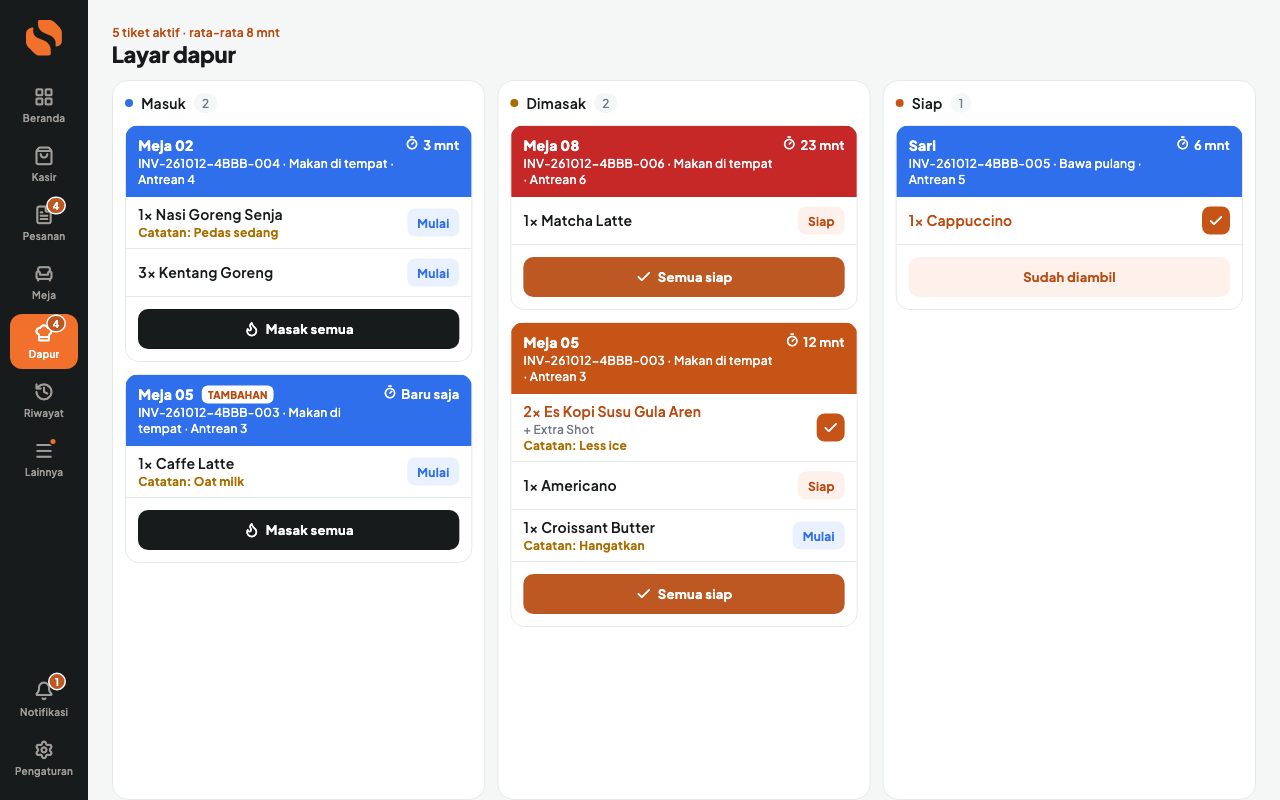
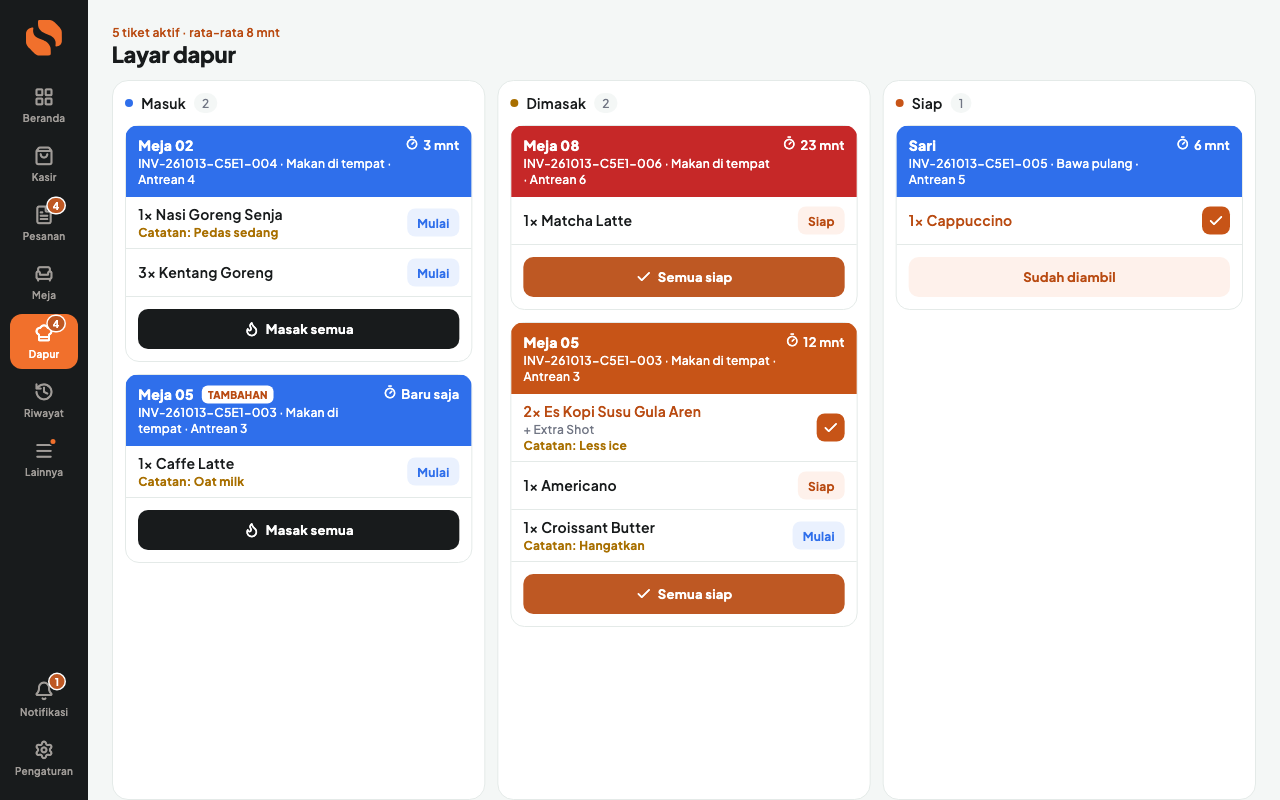
docs(panduan): impor Excel, printer Bluetooth baru, salinan struk toko, notifikasi, ganti password; gambar aplikasi terbaru
- guides.ts: impor kini Excel/CSV (Pilih berkas, lembar Varian/Bahan/Resep/
  Pilihan Ekstra), pemilih printer (Paling dekat, kode singkat, Cetak tes),
  salinan untuk toko, 3 kategori notifikasi baru, form ganti password,
  pesanan siap di HP (lonceng), catatan butuh internet.
- Halaman Fitur & perbandingan harga: "Impor produk dari Excel/CSV".
- Gambar layar aplikasi dirender ulang dari sissi-app.

diff --git a/src/constants/guides.ts b/src/constants/guides.ts
@@ -158,7 +158,7 @@ export const GUIDES: GuideItem[] = [
         id: "produk",
         title: "Tambahkan produk",
         description:
-          "Buka “Produk”, ketuk “Tambah produk”, isi nama, kategori, dan harga. Kategori bisa dibuat langsung dari form lewat “Buat kategori baru”. Punya banyak produk? Impor sekaligus dari CSV lewat “Kelola” › “Impor dari CSV”.",
+          "Buka “Produk”, ketuk “Tambah produk”, isi nama, kategori, dan harga. Kategori bisa dibuat langsung dari form lewat “Buat kategori baru”. Punya banyak produk? Impor sekaligus dari Excel atau CSV lewat “Kelola” › “Impor produk”.",
       },
       {
         id: "buka-kasir",
@@ -531,14 +531,20 @@ export const GUIDES: GuideItem[] = [
         title: "Printer Bluetooth",
         steps: [
           "Di lembar “Printer baru”, pilih “Jenis sambungan”: “Bluetooth”.",
-          "Ketuk “Pilih printer Bluetooth”. Bila diminta, ketuk “Izinkan” untuk izin Perangkat sekitar (atau Lokasi di Android 11 ke bawah). Bila Bluetooth mati, ketuk “Nyalakan Bluetooth”.",
-          "Pilih printer dari “Sudah dipasangkan”, atau dari “Ditemukan di sekitar”. Printer yang belum dipasangkan bertanda “Pasangkan” — ketuk untuk memasangkannya langsung dari aplikasi.",
-          "“Nama printer” terisi otomatis dari nama Bluetooth; ganti bila perlu (mis. Printer kasir).",
+          "Nyalakan printer dan dekatkan ke HP, lalu ketuk “Pilih printer Bluetooth”. Bila diminta, ketuk “Izinkan” untuk izin Perangkat sekitar (atau Lokasi di Android 11 ke bawah). Bila Bluetooth mati, ketuk “Nyalakan Bluetooth”.",
+          "Sissi langsung mencari sendiri; printer muncul di “Sudah dipasangkan” atau “Ditemukan di sekitar”. Printer terdekat diberi tanda “Paling dekat”.",
+          "Ketuk printernya untuk memilih. Printer yang belum dipasangkan bertanda “Pasangkan” — ketuk untuk memasangkannya langsung dari aplikasi.",
+          "“Nama printer” terisi otomatis dari nama Bluetooth; ganti bila perlu, atau pilih nama cepat “Printer kasir”, “Printer dapur”, atau “Printer bar”.",
           "Atur peran, lebar kertas, dan pemotong (lihat di bawah), ketuk “Tes cetak”, lalu “Simpan”.",
+        ],
+        points: [
+          "Punya beberapa printer bernama sama? Namanya dibedakan dengan kode singkat, mis. “RPP02N (1A90)”. Ketuk “Cetak tes” di sebelah printer — printer yang mengeluarkan kertas bertuliskan “PRINTER INI” adalah printer itu.",
+          "Printer tidak ada di daftar? Sebagian printer tidak mengirim nama. Ketuk “Tampilkan perangkat lain”, lalu ketuk “Cetak tes” pada “Perangkat tanpa nama” untuk memastikan.",
+          "Di sebagian HP (terutama Android 11 ke bawah), Lokasi (GPS) harus menyala agar printer bisa ditemukan. Bila muncul “Nyalakan Lokasi”, ketuk “Buka pengaturan Lokasi”. Sissi tidak menyimpan lokasimu.",
         ],
         callout: {
           type: "tip",
-          text: "Gagal memasangkan? Pastikan printer menyala dan tidak tersambung ke HP lain. PIN printer biasanya 0000 atau 1234. Bila printer tidak muncul, ketuk “Cari lagi”.",
+          text: "Gagal memasangkan? Pastikan printer menyala dan tidak tersambung ke HP lain. PIN printer biasanya 0000 atau 1234. Bila printer tidak muncul, matikan lalu nyalakan lagi printernya, kemudian ketuk “Cari lagi”.",
         },
       },
       {
@@ -602,6 +608,21 @@ export const GUIDES: GuideItem[] = [
           "Buka Pengaturan › “Struk”. Isi “Header struk”, “Footer struk”, dan “Instagram”, pilih “Tampilkan persen pajak” bila perlu, lalu cek lewat “Lihat pratinjau”. Pengaturan ini berlaku untuk semua perangkat di outlet.",
       },
       {
+        id: "salinan-toko",
+        title: "Salinan struk untuk toko",
+        description:
+          "Perlu arsip kertas untuk kasir? Sissi bisa mencetak satu salinan bertanda “SALINAN TOKO” setelah struk pelanggan, untuk semua transaksi.",
+        steps: [
+          "Buka Pengaturan › “Struk”, lalu di kartu “Salinan untuk toko” nyalakan “Cetak salinan untuk toko”.",
+          "Pilih “Isi salinan”: “Sama seperti struk”, atau “Ringkas” (tanpa daftar barang — hanya nomor, waktu, kasir, total, dan pembayaran; hemat kertas).",
+          "Ketuk “Lihat contoh salinan” untuk melihat hasilnya.",
+        ],
+        points: [
+          "Printer tanpa pemotong otomatis: setelah struk pelanggan, muncul “Sobek struk pelanggan dulu”. Sobek struknya, lalu ketuk “Cetak salinan”.",
+          "Butuh salinan untuk transaksi yang sudah lewat? Buka “Riwayat” › pilih transaksi › “Salinan toko”.",
+        ],
+      },
+      {
         id: "cetak-ulang",
         title: "Bila struk gagal dicetak dan cetak ulang",
         points: [
@@ -642,7 +663,7 @@ export const GUIDES: GuideItem[] = [
       },
     ],
     relatedSlugs: ["menerima-pembayaran-qris-dan-tunai", "layar-dapur", "tanya-jawab-masalah-umum"],
-    keywords: ["printer", "bluetooth", "thermal", "struk", "nota", "wifi", "lan", "58mm", "80mm", "laci", "cash drawer", "printer dapur", "pairing", "pemotong", "auto cut"],
+    keywords: ["printer", "bluetooth", "thermal", "struk", "nota", "wifi", "lan", "58mm", "80mm", "laci", "cash drawer", "printer dapur", "pairing", "pemotong", "auto cut", "cetak tes", "paling dekat", "salinan struk", "salinan toko", "arsip struk"],
   },
 
   // ───────────────────────────── PRODUK ─────────────────────────────
@@ -742,7 +763,7 @@ export const GUIDES: GuideItem[] = [
       },
       {
         question: "Bisakah impor produk dari Excel?",
-        answer: "Bisa. Simpan daftar produk sebagai CSV, lalu impor lewat “Produk” › “Kelola” › “Impor dari CSV”. Baca “Impor banyak produk dari CSV”.",
+        answer: "Bisa. Berkas Excel (.xlsx) atau CSV bisa langsung diimpor lewat “Produk” › “Kelola” › “Impor produk”. Baca “Impor banyak produk dari Excel atau CSV”.",
       },
     ],
     relatedSlugs: ["impor-produk-dari-csv", "produk-dengan-varian", "hpp-resep-dan-bahan-baku"],
@@ -751,49 +772,67 @@ export const GUIDES: GuideItem[] = [
   {
     slug: "impor-produk-dari-csv",
     category: "produk",
-    title: "Impor banyak produk dari CSV",
-    description: "Isi template di Excel atau Google Sheets, periksa hasilnya, lalu impor sampai 1.000 produk sekaligus.",
+    title: "Impor banyak produk dari Excel atau CSV",
+    description: "Isi template Excel atau CSV, periksa hasilnya, lalu impor sampai 1.000 produk sekaligus — lengkap dengan varian, bahan baku, resep, dan pilihan ekstra.",
     audience: ["Pemilik"],
-    readMinutes: 5,
+    readMinutes: 6,
     lastUpdated: UPDATED_NEW,
     overview:
-      "Punya banyak produk? Daripada mengisi satu per satu, isi template CSV lalu impor sekaligus. Aplikasi menampilkan pratinjau sehingga kamu bisa memilih produk yang diimpor dan menangani baris kembar sebelum menyimpan.",
+      "Punya banyak produk? Daripada mengisi satu per satu, isi template lalu impor sekaligus. Berkas Excel (.xlsx) bisa langsung dipilih tanpa diubah ke CSV, dan template Excel lengkap juga memuat varian, bahan baku, resep, dan pilihan ekstra. Ekspor Excel dari aplikasi kasir lain juga bisa dicoba langsung: lembar dan kolomnya dikenali otomatis. Sebelum menyimpan, aplikasi menampilkan hasilnya sehingga kamu bisa memilih produk yang diimpor dan menangani baris kembar.",
     prerequisites: ["Aplikasi spreadsheet seperti Excel atau Google Sheets (di HP atau komputer)."],
     steps: [
       {
         id: "buka",
         title: "Buka Impor produk",
         steps: [
-          "Buka “Produk”, ketuk “Kelola”, lalu “Impor dari CSV”.",
-          "Bila daftar produk masih kosong, bisa juga lewat tautan “Atau impor banyak produk dari CSV”.",
+          "Buka “Produk”, ketuk “Kelola”, lalu “Impor produk”.",
+          "Bila daftar produk masih kosong, bisa juga lewat tautan “Atau impor banyak produk dari Excel atau CSV”.",
         ],
       },
       {
         id: "template",
         title: "Unduh dan isi template",
         steps: [
-          "Ketuk “Unduh template”, lalu simpan atau kirim berkas template-impor-produk.csv (mis. ke Google Drive atau email).",
-          "Buka di Excel/Google Sheets. Isi satu baris untuk satu produk; hapus baris contoh.",
-          "Simpan sebagai CSV (pemisah koma atau titik koma).",
+          "Ketuk “Unduh template”, lalu pilih “Excel lengkap” (produk, varian, bahan baku, resep, dan pilihan ekstra dalam satu berkas) atau “CSV sederhana” (produk saja; varian lewat kolom varian).",
+          "Simpan atau kirim berkas templatenya (mis. ke Google Drive atau email), lalu buka di Excel/Google Sheets.",
+          "Isi satu baris untuk satu produk; hapus baris contoh.",
+          "Simpan sebagai .xlsx atau .csv (CSV boleh memakai pemisah koma atau titik koma).",
         ],
         points: [
           "Wajib: “nama” dan “harga” (angka tanpa titik, mis. 15000).",
           "Opsional: “kategori” (dibuat otomatis bila belum ada), “modal”, “sku”, “barcode” (lebih dari satu dipisah titik koma), “satuan” (kosong = pcs), “lacak_stok” (ya/tidak), “stok_awal”, “stok_min”, “kena_pajak” (ya/tidak, kosong = ya), dan “deskripsi”.",
+          "Kolom “varian” boleh kosong; untuk produk bervarian, ulangi nama produk di baris lain dengan varian berbeda. Kolom “pilihan_ekstra” berisi nama grup pilihan ekstra, dipisah titik koma (;).",
           "Usaha jasa punya kolom tambahan “durasi_menit”.",
           "Kolom yang tidak dikenali diabaikan.",
+        ],
+      },
+      {
+        id: "lembar-excel",
+        title: "Lembar lain di template Excel",
+        description:
+          "Template Excel lengkap punya lembar tambahan. Isi yang perlu saja; lembar dikenali dari judul kolomnya, dan lembar yang tidak dikenali diabaikan.",
+        points: [
+          "“Varian” — nama_produk, varian, harga, modal, sku, barcode.",
+          "“Bahan” — nama_bahan, satuan (g, kg, ml, l, pcs…), harga_beli, isi_kemasan, stok_min, sku.",
+          "“Resep” — nama_produk, varian (boleh kosong), nama_bahan, jumlah, satuan.",
+          "“Pilihan Ekstra” — grup, pilih_satu (ya/tidak), pilihan, harga.",
         ],
       },
       {
         id: "pilih-berkas",
         title: "Pilih berkas dan periksa hasilnya",
         steps: [
-          "Ketuk “Pilih berkas CSV”. Muncul layar “Periksa impor”.",
+          "Ketuk “Pilih berkas”, lalu pilih berkas .xlsx atau .csv. Muncul layar “Periksa impor”.",
+          "Di bagian atas ada kartu berkas berisi nama berkas dan isinya (mis. jumlah produk, varian, bahan baku). Salah memilih berkas? Ketuk “Ganti berkas”.",
           "“Gagal” — baris yang isiannya salah, mis. “harga: bukan angka yang sah”. Perbaiki di berkas, lalu pilih ulang berkasnya.",
           "“Kembar di berkas” — baris dengan SKU/barcode sama: pilih satu yang dipakai. Baris dengan nama sama: centang semua yang memang ingin diimpor.",
-          "“Sudah ada di daftar produk” — produk yang SKU, barcode, atau namanya sudah ada. Pilih “Pertahankan” (bawaan) atau “Pakai CSV” untuk menimpa.",
+          "“Sudah ada di daftar produk” — produk yang SKU, barcode, atau namanya sudah ada. Pilih “Pertahankan” (bawaan) atau “Pakai berkas” untuk menimpa.",
           "“Siap diimpor” — centang produk yang mau diimpor, atau “Pilih semua”.",
         ],
-        points: ["Banner “Kategori baru yang akan dibuat” menunjukkan kategori yang belum ada."],
+        points: [
+          "Banner “Kategori baru yang akan dibuat” menunjukkan kategori yang belum ada.",
+          "Bagian “Bahan baku” dan “Pilihan ekstra” menampilkan bahan dan grup yang akan dibuat. Bahan atau grup bernama sama yang sudah ada dipakai tanpa diubah.",
+        ],
         image: {
           ...HP,
           src: "/panduan/impor-csv-hp.png",
@@ -806,7 +845,7 @@ export const GUIDES: GuideItem[] = [
         title: "Impor",
         steps: [
           "Ketuk “Impor … produk”. Bila ada produk yang ditimpa, konfirmasi “Timpa & impor”.",
-          "Muncul “Impor selesai” dengan jumlah produk baru, diperbarui, dan dilewati. Ketuk “Selesai” atau “Impor berkas lain”.",
+          "Muncul “Impor selesai” dengan jumlah produk baru, diperbarui, dan dilewati (serta varian, resep, bahan baku, dan grup pilihan ekstra bila ada). Ketuk “Selesai” atau “Impor berkas lain”.",
         ],
         callout: {
           type: "info",
@@ -817,24 +856,29 @@ export const GUIDES: GuideItem[] = [
     faqs: [
       {
         question: "Apakah bisa mengimpor varian?",
-        answer: "Belum. Impor membuat produk satu harga. Varian ditambahkan lewat form produk setelah impor.",
+        answer:
+          "Bisa, untuk produk baru: isi lembar “Varian” di template Excel, atau ulangi nama produk dengan kolom “varian” berbeda. Varian produk yang sudah ada tetap diatur lewat form produk.",
       },
       {
         question: "Apakah stok produk yang sudah ada ikut berubah?",
         answer:
-          "Tidak. “stok_awal” hanya berlaku untuk produk baru. Menimpa produk dengan “Pakai CSV” mengubah nama, harga, kategori, kode, dan pengaturan, tetapi tidak mengubah stok, foto, maupun modifier.",
+          "Tidak. “stok_awal” hanya berlaku untuk produk baru. Menimpa produk dengan “Pakai berkas” mengubah nama, harga, kategori, kode, dan pengaturan, tetapi tidak mengubah stok. Sel kosong mempertahankan data lama.",
       },
       {
         question: "Berapa batasnya?",
-        answer: "Maksimal 1.000 baris dan 2 MB per berkas. Lebih dari itu, bagi menjadi beberapa berkas.",
+        answer: "Maksimal 1.000 produk per berkas, dengan ukuran berkas maksimal 2 MB untuk CSV dan 5 MB untuk Excel. Lebih dari itu, bagi menjadi beberapa berkas.",
+      },
+      {
+        question: "Berkas saya .xls (Excel lama).",
+        answer: "Buka di Excel lalu simpan ulang sebagai .xlsx, kemudian pilih lagi.",
       },
       {
         question: "Muncul “Kolom \"nama\" tidak ditemukan”.",
         answer: "Baris pertama berkas harus berisi judul kolom dari template. Unduh ulang template dan salin datamu ke dalamnya.",
       },
     ],
-    relatedSlugs: ["menambah-produk", "produk-dengan-varian", "stok-barang-dan-stok-masuk"],
-    keywords: ["impor", "import", "csv", "excel", "google sheets", "upload produk", "massal", "bulk", "template"],
+    relatedSlugs: ["menambah-produk", "produk-dengan-varian", "hpp-resep-dan-bahan-baku", "stok-barang-dan-stok-masuk"],
+    keywords: ["impor", "import", "csv", "excel", "xlsx", "google sheets", "upload produk", "massal", "bulk", "template", "pindah dari aplikasi lain", "resep", "bahan baku"],
   },
   {
     slug: "produk-dengan-varian",
@@ -1311,7 +1355,11 @@ export const GUIDES: GuideItem[] = [
         id: "pelayan",
         title: "Untuk pelayan dan kasir",
         description:
-          "Bila ada pesanan siap, Kasir menampilkan “Pesanan siap disajikan”. Di “Pesanan” › “Status dapur”, antar ke tamu lalu ketuk “Tandai sudah diantar”.",
+          "Saat dapur menandai pesanan siap, Kasir langsung memberi tahu. Antar ke tamu, lalu ketuk “Tandai sudah diantar”. Daftar lengkapnya juga ada di “Pesanan” › “Status dapur”.",
+        devices: {
+          hp: "Muncul ikon lonceng berangka di kepala layar Kasir dan pesan singkat “… siap disajikan”. Ketuk loncengnya untuk membuka lembar “Siap diantar”.",
+          tablet: "Muncul spanduk “Pesanan siap disajikan” di layar Kasir; ketuk “Lihat”.",
+        },
       },
       {
         id: "perangkat-khusus",
@@ -1344,7 +1392,7 @@ export const GUIDES: GuideItem[] = [
         steps: [
           "Buka Pengaturan › “Penjualan” › “Pesan & Bayar Mandiri”.",
           "Nyalakan “Terima pesanan dari QR”.",
-          "Atur kartu-kartu di bawahnya (lihat langkah berikut), lalu ketuk “Simpan”.",
+          "Atur pilihan lainnya (lihat langkah berikut), lalu ketuk “Simpan”.",
         ],
         callout: {
           type: "info",
@@ -1354,7 +1402,7 @@ export const GUIDES: GuideItem[] = [
       {
         id: "mode-meja",
         title: "Pilih cara pelanggan menentukan meja",
-        description: "Di kartu “Meja”, pilih salah satu:",
+        description: "Pilih salah satu mode meja:",
         points: [
           "“QR per meja” (bawaan) — tiap meja punya QR sendiri, meja terisi otomatis. QR outlet dipakai untuk pesanan tanpa meja.",
           "“Pilih meja” — cukup satu QR outlet; pelanggan memilih nomor meja saat makan di tempat.",
@@ -1391,7 +1439,7 @@ export const GUIDES: GuideItem[] = [
         id: "kelola-qr",
         title: "Buat, cetak, dan tempel QR",
         steps: [
-          "Di kartu “Kode QR pesanan”, ketuk “Kelola QR” (atau tombol “Kelola QR” di layar Pesanan QR).",
+          "Di Pengaturan › “Pesan & Bayar Mandiri”, ketuk “Kelola QR” (atau tombol “Kelola QR” di layar Pesanan QR).",
           "Untuk QR per meja, ketuk “Buat … QR” untuk membuat QR semua meja sekaligus, atau “Buat QR” per meja. Kode muncul setelah perangkat online dan tersinkron (status “Menunggu sinkron” lalu “Aktif”).",
           "Ketuk “Lihat” pada QR, lalu “Cetak” untuk mencetak ke printer struk perangkat ini, atau “Bagikan” untuk mengirim gambar QR (mis. untuk dicetak di percetakan).",
           "Tempel QR meja di tiap meja, dan QR outlet di kasir/konter.",
@@ -2418,6 +2466,9 @@ export const GUIDES: GuideItem[] = [
           "“Transaksi dibatalkan (void) atau di-refund” — berisi nomor struk, nominal, dan outlet.",
           "“Login di perangkat baru” — akun dimasuki dari HP/tablet yang belum pernah dipakai.",
           "“Langganan” — pengingat masa Pro berakhir, batas transaksi Gratis, dan pembayaran tercatat.",
+          "“Stok menipis atau habis” — barang atau bahan baku turun ke batas minimum atau habis, per outlet.",
+          "“Ringkasan penjualan harian” — total penjualan dan jumlah transaksi hari ini, dikirim pukul 21.00.",
+          "“Pengingat booking (usaha sewa)” — 15 menit sebelum booking mulai; juga muncul di perangkat kasir outlet itu.",
         ],
         callout: {
           type: "tip",
@@ -2432,7 +2483,7 @@ export const GUIDES: GuideItem[] = [
       },
       {
         question: "Apakah kasir menerima peringatan pemilik?",
-        answer: "Tidak. Peringatan pemilik hanya untuk perangkat yang dipakai pemilik. Kasir hanya menerima notifikasi pesanan QR.",
+        answer: "Tidak. Peringatan pemilik hanya untuk perangkat yang dipakai pemilik. Perangkat kasir hanya menerima notifikasi pesanan QR dan pengingat booking (usaha sewa).",
       },
       {
         question: "Saya void dari HP sendiri tetapi tidak dapat peringatan.",
@@ -2440,7 +2491,7 @@ export const GUIDES: GuideItem[] = [
       },
     ],
     relatedSlugs: ["akun-dan-keamanan", "membatalkan-transaksi-void-refund", "shift-kas-dan-tutup-kasir-harian"],
-    keywords: ["notifikasi", "push", "pemberitahuan", "peringatan", "alert", "lonceng"],
+    keywords: ["notifikasi", "push", "pemberitahuan", "peringatan", "alert", "lonceng", "stok menipis", "ringkasan harian", "pengingat booking"],
   },
 
   // ───────────────────────────── OFFLINE ─────────────────────────────
@@ -2451,7 +2502,7 @@ export const GUIDES: GuideItem[] = [
     description: "Apa yang tetap bisa dilakukan saat internet putus dan arti tiap status sinkron.",
     audience: ["Kasir", "Pemilik"],
     readMinutes: 4,
-    lastUpdated: UPDATED,
+    lastUpdated: UPDATED_NEW,
     overview:
       "Sissi menyimpan data di perangkat lebih dulu, lalu mengirimnya ke server di latar belakang. Karena itu kasir tetap bisa berjualan saat internet putus.",
     steps: [
@@ -2462,6 +2513,7 @@ export const GUIDES: GuideItem[] = [
           "Mencatat transaksi, menyimpan pesanan, membuka dan menutup kasir.",
           "Data tersimpan di perangkat dan menunggu dikirim.",
           "Hal yang butuh server tetap perlu internet, misalnya masuk akun, unggah foto, dan sinkron pertama.",
+          "Juga butuh internet: menerima Pesanan QR baru dari pelanggan, memperbarui status langganan, dan mengganti password.",
         ],
       },
       {
@@ -2603,14 +2655,24 @@ export const GUIDES: GuideItem[] = [
     description: "Ganti password, PIN supervisor, login di perangkat baru, dan keluar akun.",
     audience: ["Pemilik"],
     readMinutes: 3,
-    lastUpdated: UPDATED,
+    lastUpdated: UPDATED_NEW,
     overview: "Pengaturan akun ada di Pengaturan › “Akun & keamanan”.",
     steps: [
       {
         id: "password",
         title: "Ganti password",
-        description:
-          "Belum ada form ganti password di dalam aplikasi. Keluar dari akun, lalu gunakan “Lupa password?” di layar masuk; kode dikirim ke email akun.",
+        description: "Khusus pemilik; karyawan masuk memakai PIN. Mengganti password butuh internet.",
+        steps: [
+          "Buka Pengaturan › “Akun & keamanan”. Di kartu “Keamanan”, pada baris “Password”, ketuk “Ganti”.",
+          "Isi “Password saat ini”, lalu “Password baru” dan “Ulangi password”.",
+          "Nyalakan “Keluarkan perangkat lain” bila HP, tablet, dan dasbor web lain harus masuk lagi dengan password baru. Perangkat ini tetap masuk.",
+          "Ketuk “Simpan Password”. Muncul “Password berhasil disimpan.”",
+        ],
+        points: [
+          "Daftar lewat Google dan belum pernah membuat password? Kosongkan “Password saat ini” untuk mengatur password.",
+          "Lupa password saat ini? Gunakan “Lupa password?” di layar masuk; kode dikirim ke email akun.",
+          "Bila muncul “Terlalu banyak percobaan”, tunggu sekitar 15 menit, lalu coba lagi.",
+        ],
       },
       {
         id: "pin-supervisor",

diff --git a/src/app/fitur/page.tsx b/src/app/fitur/page.tsx
@@ -8,7 +8,7 @@ import { AjakanSection } from "@/components/sections/AjakanSection";
 export const metadata: Metadata = {
   title: "Fitur · Sissi POS",
   description:
-    "Kasir offline, QRIS statis, printer Bluetooth & Wi-Fi, layar dapur, pesan lewat QR meja, impor produk CSV, varian dan HPP dari resep, stok bahan baku, PO dan opname, shift, laporan, absensi dan gaji, order servis, serta booking sewa. Semua di HP dan tablet Android.",
+    "Kasir offline, QRIS statis, printer Bluetooth & Wi-Fi, layar dapur, pesan lewat QR meja, impor produk Excel/CSV, varian dan HPP dari resep, stok bahan baku, PO dan opname, shift, laporan, absensi dan gaji, order servis, serta booking sewa. Semua di HP dan tablet Android.",
 };
 
 interface FeatureItem {
@@ -105,7 +105,7 @@ const FEATURE_BLOCKS: FeatureBlock[] = [
     imageAlt: "Form produk Sissi: varian Ukuran (S, M, L) dan Suhu (Panas, Es) dengan daftar kombinasi.",
     items: [
       {
-        title: "Impor produk dari CSV",
+        title: "Impor produk dari Excel/CSV",
         description: "Isi template di Excel atau Google Sheets, periksa pratinjau, impor sampai 1.000 produk sekaligus.",
       },
       {

diff --git a/src/constants/pricingComparison.ts b/src/constants/pricingComparison.ts
@@ -50,7 +50,7 @@ export const PRICING_COMPARISON: PricingComparisonCategory[] = [
     category: "Produk & stok",
     items: [
       { name: "Produk, varian & stok menipis", gratis: true, pro: true },
-      { name: "Impor produk dari CSV", gratis: true, pro: true },
+      { name: "Impor produk dari Excel/CSV", gratis: true, pro: true },
     ],
   },
   {
